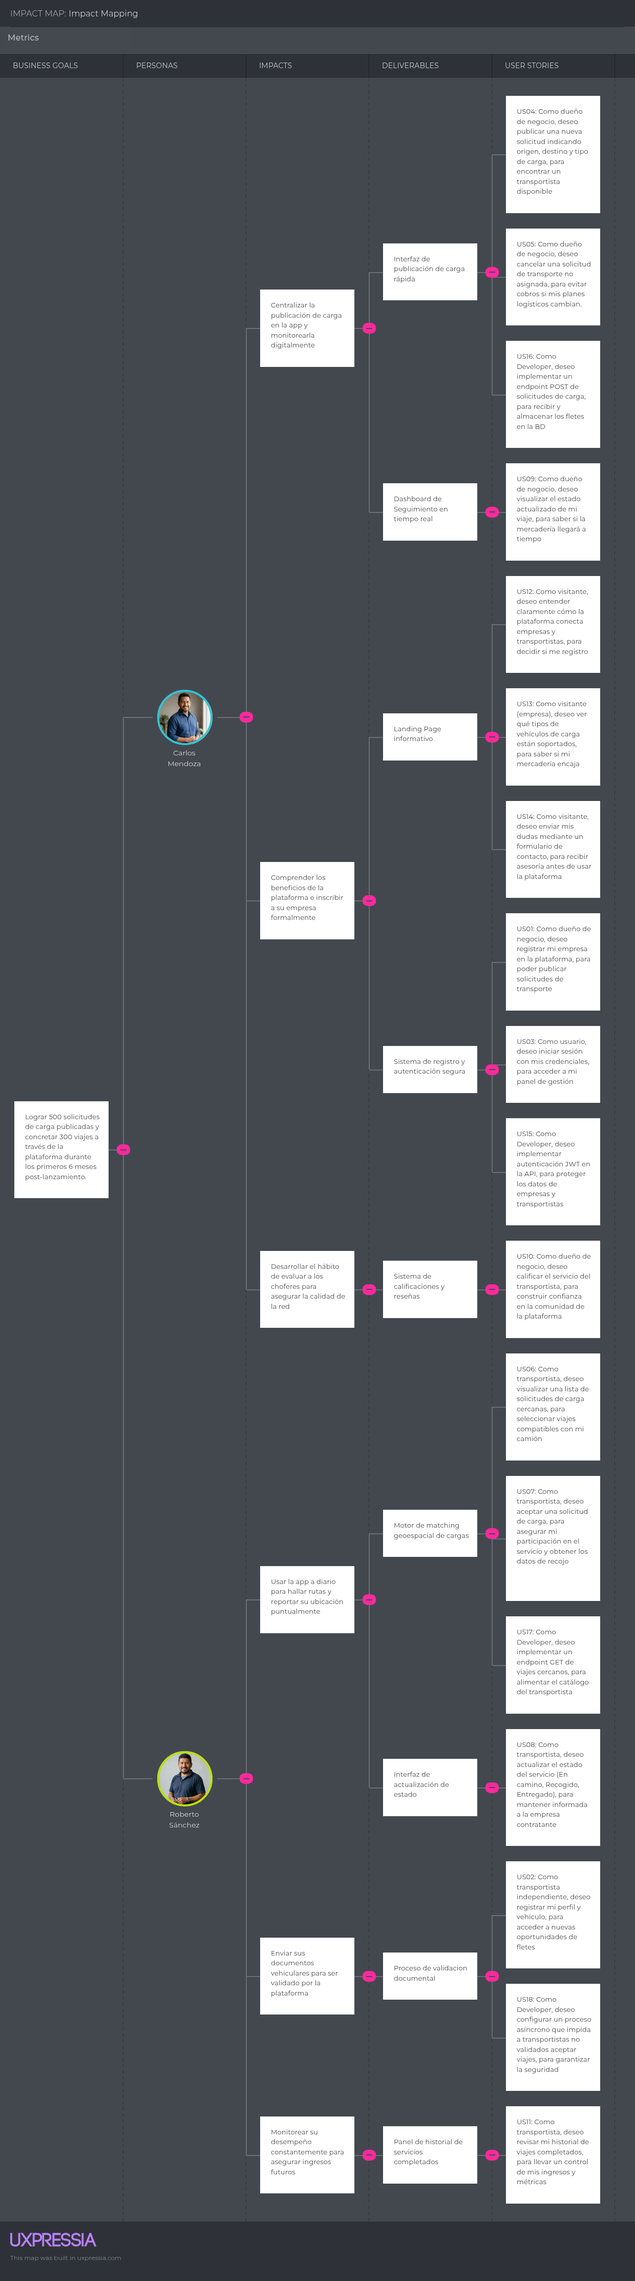
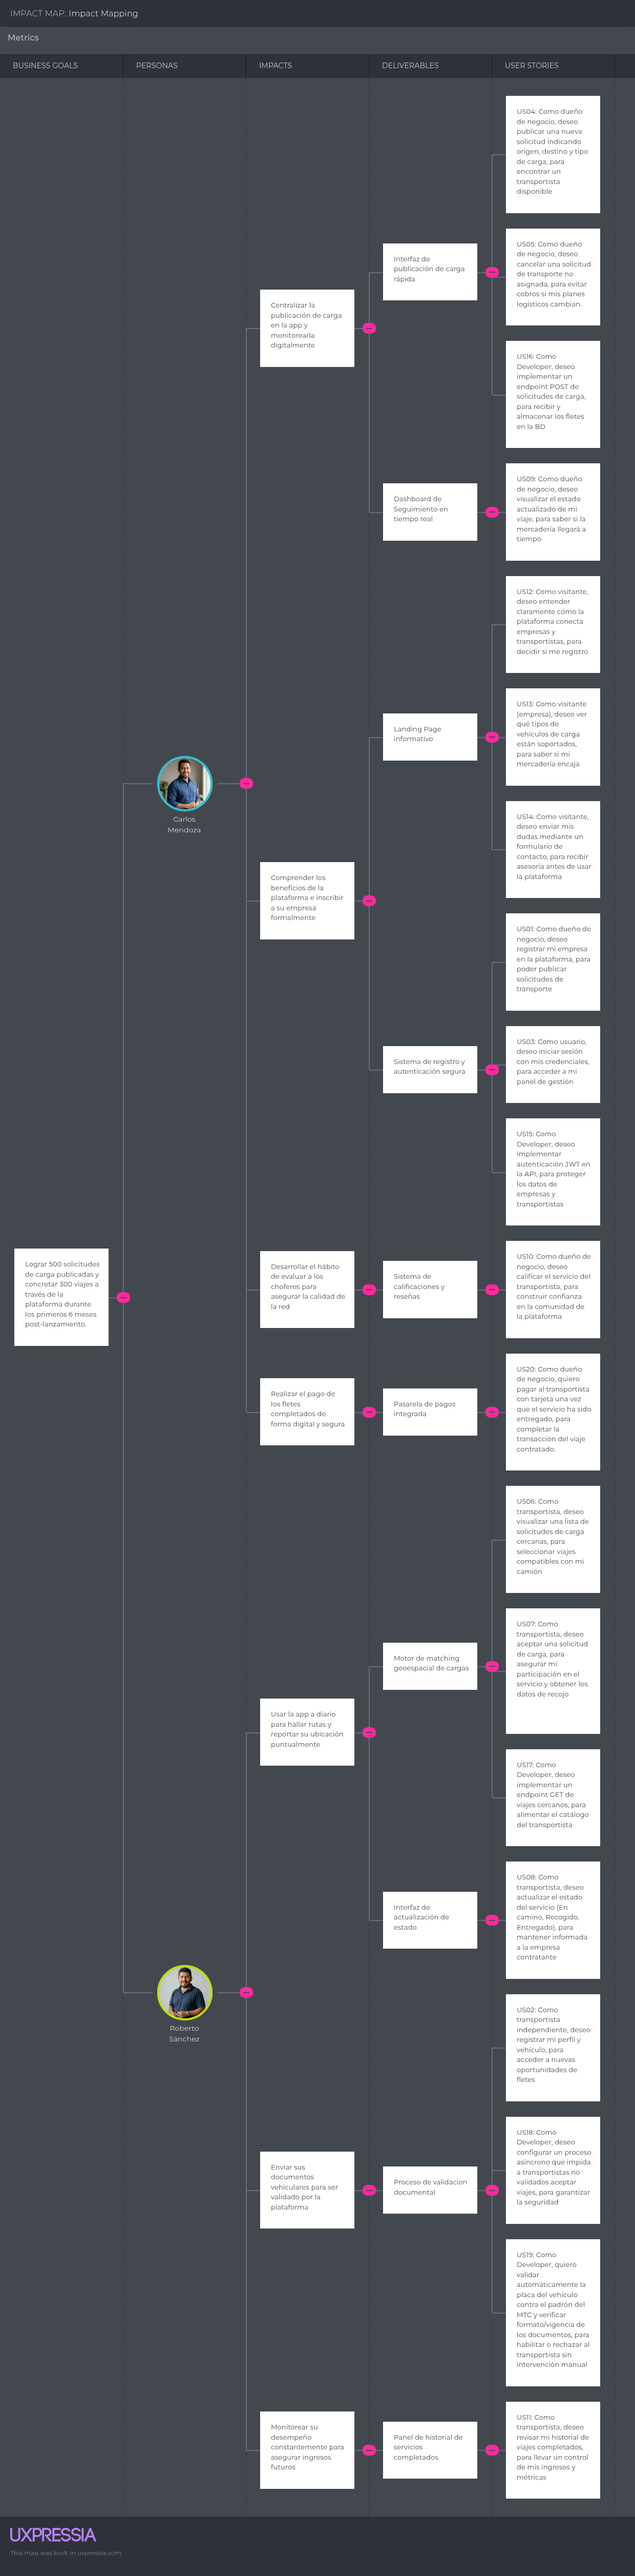
docs(chapter3): update impact mapping image and product backlog table

diff --git a/docs/chapter3.md b/docs/chapter3.md
@@ -88,3 +88,5 @@ Para la estimación del esfuerzo se ha utilizado la secuencia de Fibonacci (1, 2
 | 16 | US10 | Calificación del transportista | Como dueño de negocio, deseo calificar el servicio del transportista, para construir confianza en la comunidad de la plataforma. | 2 |
 | 17 | US11 | Historial de servicios | Como transportista, deseo revisar mi historial de viajes completados, para llevar un control de mis ingresos y métricas. | 2 |
 | 18 | US05 | Cancelación de solicitud | Como dueño de negocio, deseo cancelar una solicitud de transporte no asignada, para evitar cobros si mis planes logísticos cambian. | 2 |
+| 19 | US19 | Validación automática de transportista | Como Developer, quiero validar automáticamente la placa del vehículo contra el padrón del MTC y verificar formato/vigencia de los documentos, para habilitar o rechazar al transportista sin intervención manual. | 5 |
+| 20 | US20 | Pago al transportista por servicio completado | Como dueño de negocio, quiero pagar al transportista con tarjeta una vez que el servicio ha sido entregado, para completar la transacción del viaje contratado. | 5 |
